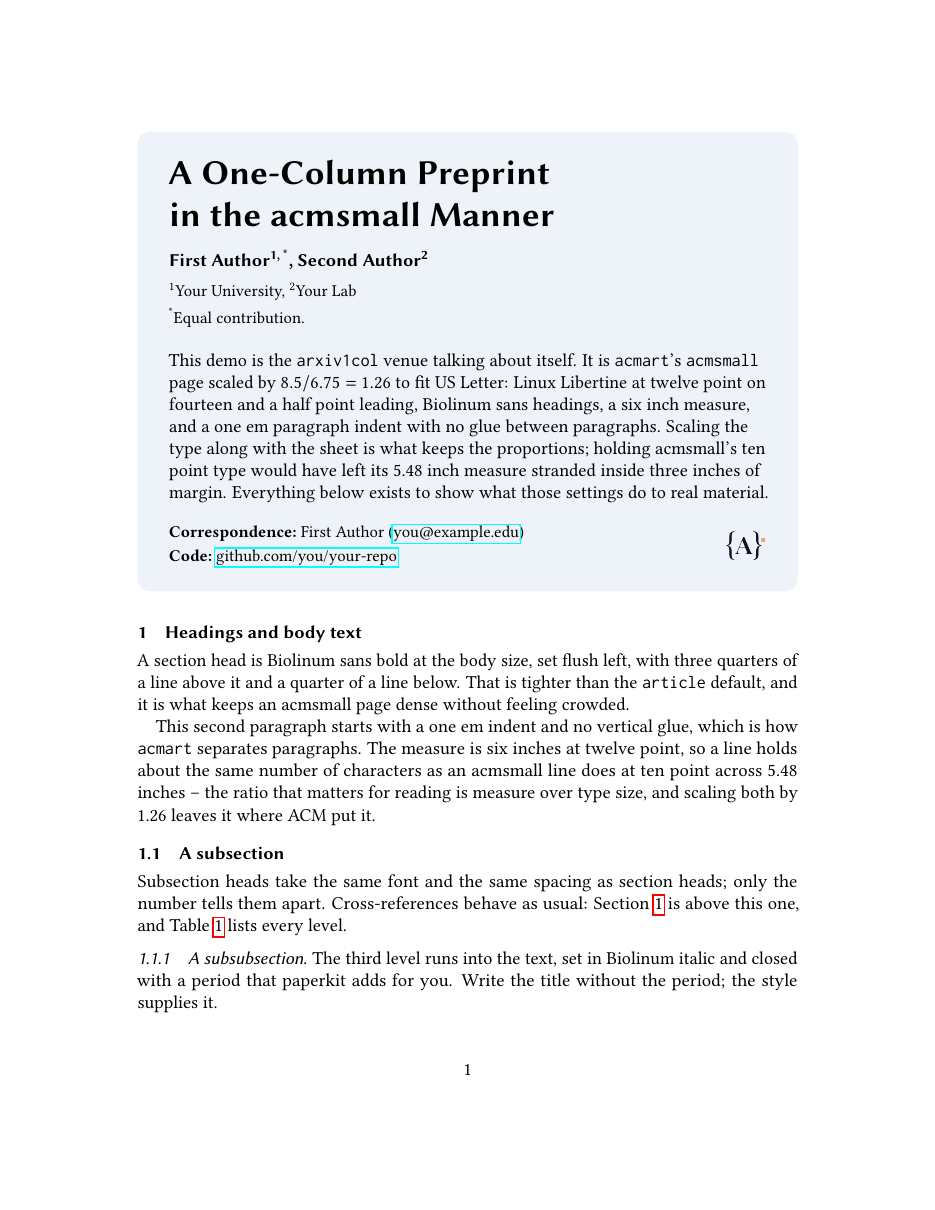
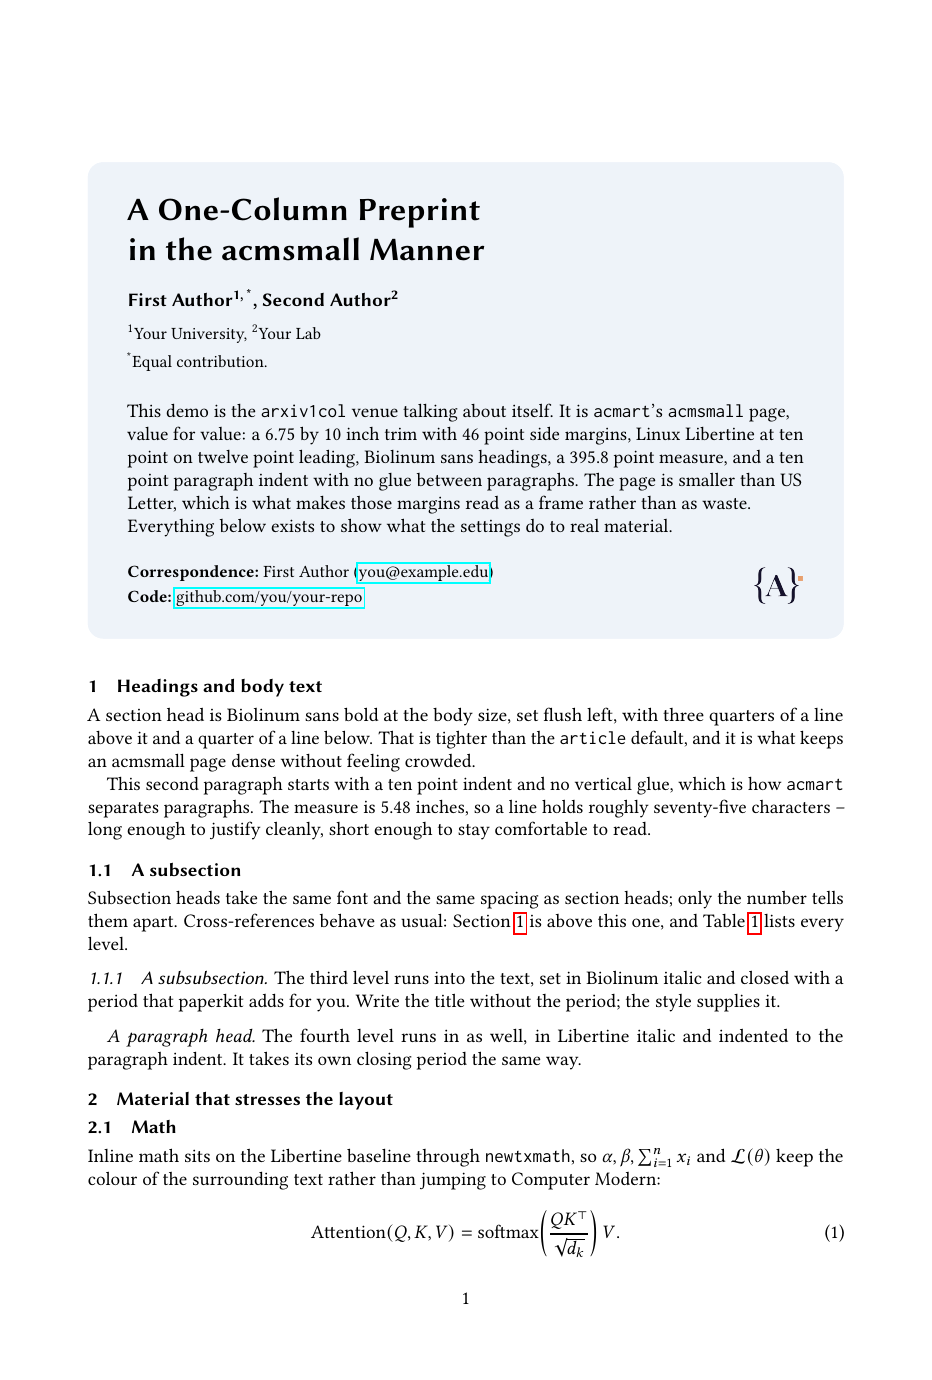
fix: use acmsmall's own page, not a Letter-sized approximation of it
Scaling acmsmall up to Letter kept its proportions but changed its
numbers. Copy acmart's acmsmall geometry instead: a 6.75x10in trim, 46pt
sides, 58pt top, 44pt bottom, includeheadfoot with head=13pt, headsep=14pt
and foot=2pc. That reproduces acmart's computed \textwidth of 395.82pt and
\textheight of 574pt exactly, verified against a PDF built with acmart.

Body returns to acmsmall's 10pt on 12pt, which is what
\documentclass{article} already gives, so size12.clo is no longer needed
and main.tex stays untouched. Paragraph indent back to 10pt, panel title to
17pt for the narrower measure.

The margins now read as an ACM journal page because the sheet is the size
ACM sets them for. The PDF is smaller than Letter; arXiv takes any trim.

Changed region(s): [[0.0933, 0.1223, 0.9024, 0.9174], [0.3423, 0.8868, 0.4356, 0.9174]]

diff --git a/examples/arxiv1col-demo.tex b/examples/arxiv1col-demo.tex
@@ -34,13 +34,12 @@
 
 \paperabstract{%
   This demo is the \texttt{arxiv1col} venue talking about itself. It is
-  \texttt{acmart}'s \texttt{acmsmall} page scaled by \(8.5/6.75 = 1.26\) to fit
-  US Letter: Linux Libertine at twelve point on fourteen and a half point
-  leading, Biolinum sans headings, a six inch measure, and a one em paragraph
-  indent with no glue between paragraphs. Scaling the type along with the sheet
-  is what keeps the proportions; holding acmsmall's ten point type would have
-  left its 5.48 inch measure stranded inside three inches of margin. Everything
-  below exists to show what those settings do to real material.%
+  \texttt{acmart}'s \texttt{acmsmall} page, value for value: a 6.75 by 10 inch
+  trim with 46 point side margins, Linux Libertine at ten point on twelve point
+  leading, Biolinum sans headings, a 395.8 point measure, and a ten point
+  paragraph indent with no glue between paragraphs. The page is smaller than US
+  Letter, which is what makes those margins read as a frame rather than as
+  waste. Everything below exists to show what the settings do to real material.%
 }
 
 \papercorrespondence{First Author (\href{mailto:you@example.edu}{you@example.edu})}
@@ -60,12 +59,10 @@ three quarters of a line above it and a quarter of a line below. That is
 tighter than the \texttt{article} default, and it is what keeps an acmsmall
 page dense without feeling crowded.
 
-This second paragraph starts with a one em indent and no vertical glue, which
-is how \texttt{acmart} separates paragraphs. The measure is six inches at
-twelve point, so a line holds about the same number of characters as an
-acmsmall line does at ten point across 5.48 inches -- the ratio that matters
-for reading is measure over type size, and scaling both by 1.26 leaves it
-where ACM put it.
+This second paragraph starts with a ten point indent and no vertical glue,
+which is how \texttt{acmart} separates paragraphs. The measure is 5.48 inches,
+so a line holds roughly seventy-five characters -- long enough to justify
+cleanly, short enough to stay comfortable to read.
 
 \subsection{A subsection}
 \label{sec:sub}
@@ -99,8 +96,8 @@ the surrounding text rather than jumping to Computer Modern:
 
 \begin{theorem}[Measure and leading]
   \label{thm:measure}
-  Scaling face, leading, and measure by a common factor leaves characters per
-  line unchanged, so a page keeps its colour at any trim size.
+  A ten point face set on twelve point leading across a 5.48 inch measure
+  yields a line long enough to justify without visible rivers.
 \end{theorem}
 
 \begin{proof}

diff --git a/README.md b/README.md
@@ -67,7 +67,7 @@ venue's abstract environment for the submission.
 | Option | Style file | Columns | Anonymous | First page |
 | --- | --- | --- | --- | --- |
 | `arxiv` (default) | `icml2026` + `preprint` | two | no | rounded panel |
-| `arxiv1col` | none (acmsmall-style layout) | one | no | rounded panel |
+| `arxiv1col` | none (acmsmall settings) | one | no | rounded panel |
 | `icml` | `icml2026` | two | yes (until `final`) | ICML title block |
 | `neurips` | `neurips_2026` | one | yes (until `final`) | NeurIPS title block |
 | `neurips2025` | `neurips_2025` | one | yes (until `final`) | NeurIPS title block |
@@ -100,31 +100,32 @@ package loads:
 `arxiv1col` is the two-column `arxiv` mode's quieter sibling: same front matter,
 same panel, but a single column set the way ACM's `acmart` sets `acmsmall`.
 
-It is the acmsmall page scaled to fit Letter. Letter is 8.5 in wide against
-acmsmall's 6.75 in trim, so everything -- type included -- is multiplied by
-8.5 / 6.75 = 1.26:
+The settings are acmsmall's, value for value:
 
 | | `acmsmall` | paperkit `arxiv1col` |
 | --- | --- | --- |
-| Page | 6.75 x 10 in trim | US Letter |
-| Side margins | 46 pt (0.64 in) | 1.25 in |
-| Measure | 5.48 in | 6 in |
-| Text | Linux Libertine 10/12 | Linux Libertine 12/14.5 |
+| Trim | 6.75 x 10 in | same |
+| Side margins | 46 pt | same |
+| Top / bottom | 58 pt / 44 pt | same |
+| `\textwidth` | 395.82 pt | same |
+| `\textheight` | 574 pt | same |
+| Text | Linux Libertine 10/12 | same |
 | Headings | Biolinum sans bold, flush left | same |
 | Subsubsection / paragraph | run-in italic, closing period | same |
 | Math | `newtxmath` with Libertine letters | same |
 | Mono | Inconsolata (`zi4`) | same |
-| Paragraphs | 1 em indent, no `parskip` | same |
+| Paragraphs | 10 pt indent, no `parskip` | same |
 
-Scaling the type along with the sheet is the whole point. Keeping acmsmall's
-10 pt body would hold its 5.48 in measure and push all 1.75 in of extra Letter
-width into the margins -- and an acmsmall page has side margins *smaller* than
-its top margin (46 pt against 58 pt), not larger. Characters per line, the
-number that actually governs reading, comes out where ACM put it.
+The page is deliberately smaller than US Letter, because that is where the
+margins come from: 46 pt of side margin reads as a frame on a 6.75 in sheet and
+as a wasteland on an 8.5 in one. A Letter-size PDF with acmsmall's measure
+would put 1.5 in of white down each side, more than its own top margin, which
+is not what an ACM journal page looks like. Readers see the same page ACM
+prints, and arXiv accepts any trim size.
 
-`main.tex` says `\documentclass{article}` for every venue, so the 12 pt body
-comes from the package rather than a class option; you do not have to change
-anything to switch between venues.
+Nothing in `main.tex` changes: acmsmall's body size is 10 pt, which is what
+`\documentclass{article}` already gives you, so the same file still compiles
+for every other venue.
 
 ```bash
 make arxiv1col                  # -> main.pdf and build/main-arxiv1col.pdf
